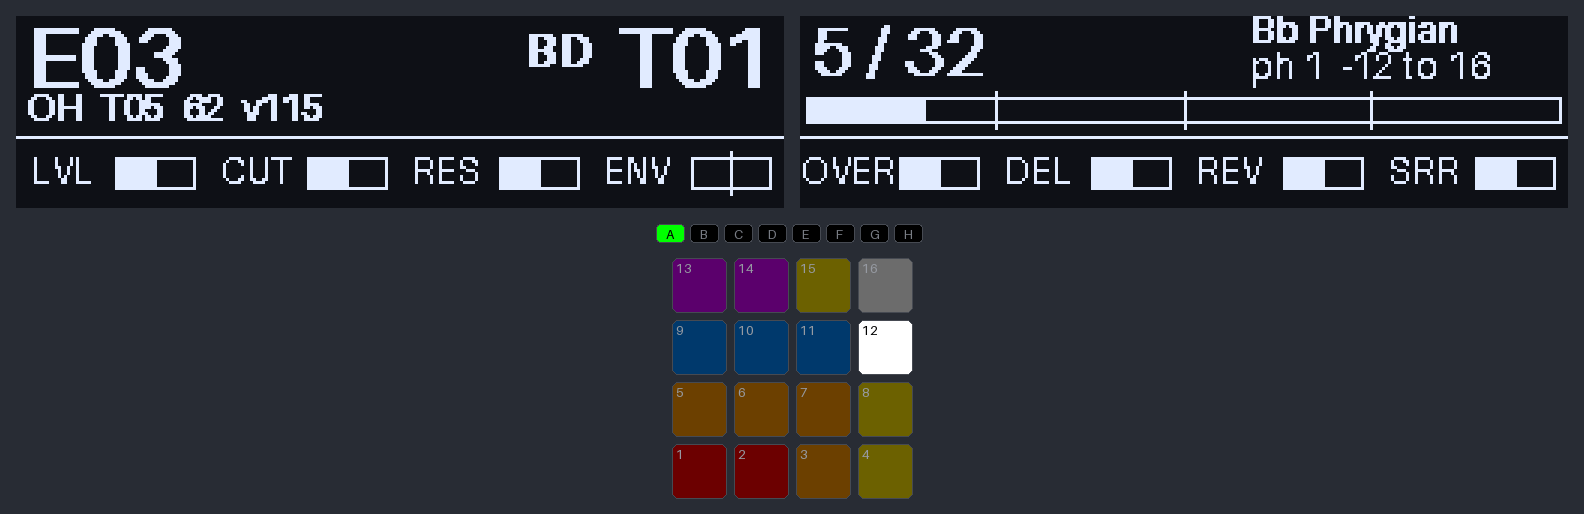
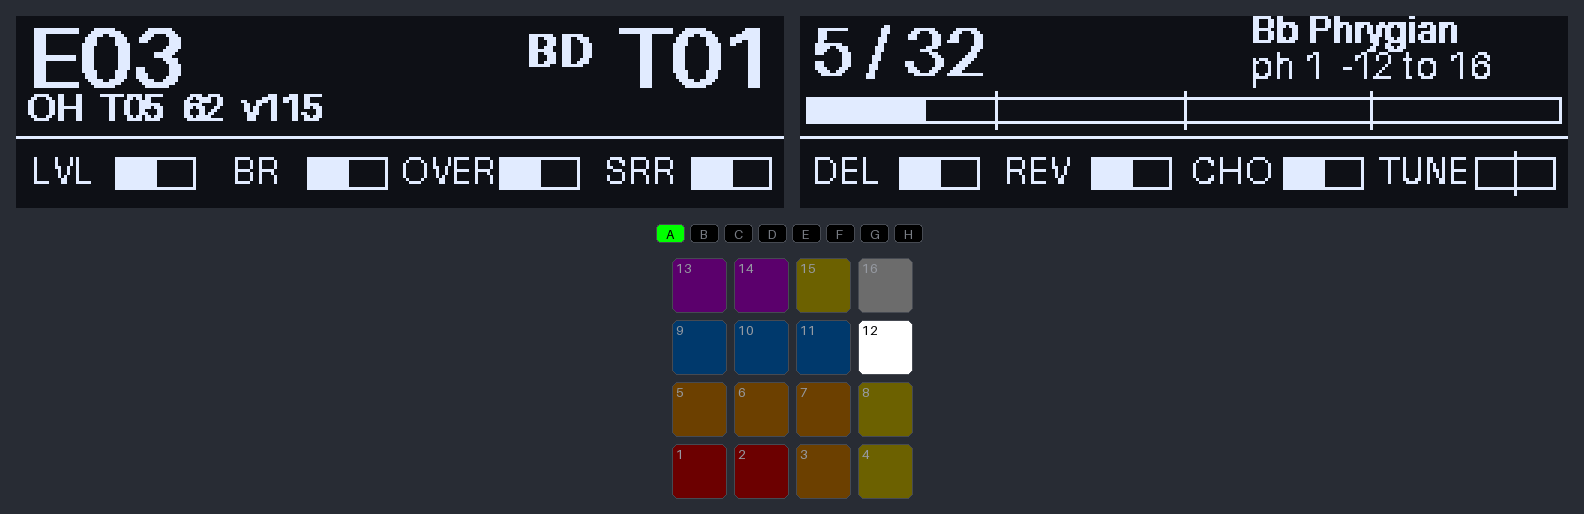
feat(mk-brain): pages d'encodeurs réordonnées, grain et envois en page 1, filtre et modulations en page 2 [9]

diff --git a/mk-brain/tests/test_engine.py b/mk-brain/tests/test_engine.py
@@ -260,7 +260,7 @@ def test_select_then_encoder_sends_cc_on_track_channel(cfg: Config) -> None:
     assert eng.track == 7
     from mk_brain.engine import ControlChange
 
-    assert eng.handle(EncoderEvent(2, 8, 0), 2 * MS) == [(2 * MS, ControlChange(6, 74, 66))]
+    assert eng.handle(EncoderEvent(2, 8, 0), 2 * MS) == [(2 * MS, ControlChange(6, 54, 66))]
 
 
 def test_pad16_mute_refused_select_targets_active_track(cfg: Config) -> None:
@@ -277,7 +277,7 @@ def test_pad16_mute_refused_select_targets_active_track(cfg: Config) -> None:
     eng.handle(PadEvent(3, False, 0), 3 * MS)
     btn(eng, "SELECT", False)
     assert eng.track == 16 and eng.last_control == "T16 selected (DT2 active)"
-    assert eng.handle(EncoderEvent(2, 4, 0), 0) == [(0, ControlChange(15, 74, 65))]
+    assert eng.handle(EncoderEvent(2, 4, 0), 0) == [(0, ControlChange(15, 54, 65))]
 
 
 def test_mute_pad_sends_cc94(cfg: Config) -> None:
@@ -305,17 +305,17 @@ def test_dt2_knob_on_auto_channel_goes_to_selected_track(cfg: Config) -> None:
     midi = cfg.midi.model_copy(update={"knobs_on_track_channel": False})  # DT2 OUTPUT CH = AUTO
     eng = Engine(cfg.model_copy(update={"midi": midi}))
     eng.track = 7
-    eng.on_control_change(15, 74, 74)  # bouton tourné sur la DT2 : arrive sur le canal 16
+    eng.on_control_change(15, 54, 74)  # bouton tourné sur la DT2 : arrive sur le canal 16
     eng.on_control_change(15, 94, 1)  # mute sur l'AUTO CHANNEL : track incertaine, ignoré
     assert not eng.faders.muted
-    assert eng.handle(EncoderEvent(2, -4, 0), 0) == [(0, ControlChange(6, 74, 73))]  # sans saut
+    assert eng.handle(EncoderEvent(2, -4, 0), 0) == [(0, ControlChange(6, 54, 73))]  # sans saut
 
 
 def test_program_change_marks_faders_stale_once(cfg: Config) -> None:
     eng = Engine(cfg)
-    eng.on_control_change(0, 74, 30)
+    eng.on_control_change(0, 54, 30)
     eng.on_program_change(3)
-    assert eng.faders.view(1)[1].stale  # CUT, encodeur 2
+    assert eng.faders.view(1)[1].stale  # BR, encodeur 2
     eng.handle(EncoderEvent(2, 4, 0), 0)
     eng.on_program_change(3)  # même pattern (PC du Stop) : rien ne change
     assert not eng.faders.view(1)[1].stale
@@ -474,23 +474,23 @@ def test_arrows_switch_encoder_page_and_pitch_bend(cfg: Config) -> None:
     from mk_brain.engine import ControlChange, PitchBend
 
     eng = Engine(cfg)
-    btn(eng, "BROWSE_RIGHT")  # page 2 : LVL MW BC PB BR CHO TUNE PAN
-    assert eng.handle(EncoderEvent(4, 8, 0), 0) == []  # PB sans SHIFT : rien
+    btn(eng, "BROWSE_RIGHT")  # page 2 : LVL CUT RES ENV MW BC PB PAN
+    assert eng.handle(EncoderEvent(7, 8, 0), 0) == []  # PB sans SHIFT : rien
     assert eng.last_control == "PB: hold SHIFT"
     btn(eng, "SHIFT")
-    assert eng.handle(EncoderEvent(4, 8, 0), 0) == [(0, PitchBend(0, 256))]  # PB : 64 → 66
-    assert eng.faders.view(1)[3].value == 66
+    assert eng.handle(EncoderEvent(7, 8, 0), 0) == [(0, PitchBend(0, 256))]  # PB : 64 → 66
+    assert eng.faders.view(1)[6].value == 66
     assert eng.handle(ButtonEvent("SHIFT", False), MS) == [(MS, PitchBend(0, 0))]  # au centre
-    assert eng.faders.view(1)[3].value == 64
+    assert eng.faders.view(1)[6].value == 64
     assert eng.handle(ButtonEvent("SHIFT", False), MS) == []  # une seule remise
     btn(eng, "SHIFT")
-    eng.handle(EncoderEvent(4, 8, 0), 0)
+    eng.handle(EncoderEvent(7, 8, 0), 0)
     btn(eng, "SHIFT", False)
-    assert eng.faders.view(1)[3].value == 64  # PB revenu au centre
-    assert eng.handle(EncoderEvent(5, 4, 0), 0) == [(0, ControlChange(0, 54, 65))]  # BR
+    assert eng.faders.view(1)[6].value == 64  # PB revenu au centre
+    assert eng.handle(EncoderEvent(2, 4, 0), 0) == [(0, ControlChange(0, 74, 65))]  # CUT
     btn(eng, "BROWSE_LEFT")
     assert eng.last_control == "page 1/2" and eng.leds().buttons["BROWSE_RIGHT"] > 0
-    assert eng.handle(EncoderEvent(2, 4, 0), 0) == [(0, ControlChange(0, 74, 65))]  # CUT
+    assert eng.handle(EncoderEvent(2, 4, 0), 0) == [(0, ControlChange(0, 54, 65))]  # BR
 
 
 def test_transport_arrows_shift_octave_in_design(cfg: Config, project: Project) -> None:
@@ -712,12 +712,12 @@ def test_arrows_cycle_both_ways(cfg: Config) -> None:
 
 def test_dt2_knob_on_track_channel_selects_track(cfg: Config) -> None:
     eng = Engine(cfg)  # DT2 OUTPUT CH = TRACK CH
-    eng.on_control_change(3, 74, 112)  # CUTOFF tourné sur la track 4 active
+    eng.on_control_change(3, 54, 112)  # BR tourné sur la track 4 active
     assert eng.track == 4 and eng.last_control == "T04 selected (DT2)"
     assert eng.faders.view(4)[1].value == 112
     eng.on_control_change(6, 94, 1)  # mute de la track 7 : pas de sélection
     assert eng.track == 4 and eng.faders.muted[7]
-    eng.on_control_change(15, 74, 90)  # track 16 (AUTO CHANNEL) : suivie aussi
+    eng.on_control_change(15, 54, 90)  # track 16 (AUTO CHANNEL) : suivie aussi
     assert eng.track == 16 and eng.faders.view(16)[1].value == 90
 
 
@@ -728,15 +728,15 @@ def test_perform_turns_pad_track_and_restores_on_release(cfg: Config) -> None:
     from mk_brain.engine import ControlChange
 
     eng = Engine(cfg)
-    eng.on_control_change(2, 74, 40)  # T3 : filtre à 40 joué sur la DT2
+    eng.on_control_change(2, 54, 40)  # T3 : BR à 40 joué sur la DT2
     eng.track = 1
     btn(eng, "SHIFT")
     assert eng.handle(PadEvent(PAD7, True, 2500), 0) == []  # SD2 (T3) : pas de note
     assert eng.tick(10 * MS) == []
     btn(eng, "SHIFT", False)  # le pad tenu garde le perform
     assert (eng.perform_track, eng.fader_track) == (3, 3)
-    assert eng.handle(EncoderEvent(2, 8, 0), MS) == [(MS, ControlChange(2, 74, 42))]
-    assert eng.handle(PadEvent(PAD7, False, 0), 2 * MS) == [(2 * MS, ControlChange(2, 74, 40))]
+    assert eng.handle(EncoderEvent(2, 8, 0), MS) == [(MS, ControlChange(2, 54, 42))]
+    assert eng.handle(PadEvent(PAD7, False, 0), 2 * MS) == [(2 * MS, ControlChange(2, 54, 40))]
     assert eng.faders.view(3)[1].value == 40 and eng.perform_track is None
     assert eng.track == 1  # la track sélectionnée n'a pas bougé
     assert press(eng, 3 * MS, pad=PAD7)[0][1] == NoteOn(2, 61, 127)  # rejoue
@@ -749,9 +749,9 @@ def test_perform_two_pads_same_track_restores_after_last(cfg: Config) -> None:
     btn(eng, "SHIFT")
     eng.handle(PadEvent(PAD1, True, 2500), 0)  # BD : T1
     eng.handle(PadEvent(PAD1 + 1, True, 2500), 0)  # BD2 : T1
-    assert eng.handle(EncoderEvent(2, 8, 0), MS) == [(MS, ControlChange(0, 74, 66))]  # une fois
+    assert eng.handle(EncoderEvent(2, 8, 0), MS) == [(MS, ControlChange(0, 54, 66))]  # une fois
     assert eng.handle(PadEvent(PAD1, False, 0), 2 * MS) == []  # BD2 tient encore T1
-    assert eng.handle(PadEvent(PAD1 + 1, False, 0), 3 * MS) == [(3 * MS, ControlChange(0, 74, 64))]
+    assert eng.handle(PadEvent(PAD1 + 1, False, 0), 3 * MS) == [(3 * MS, ControlChange(0, 54, 64))]
 
 
 def test_perform_keyboard_pad_n_is_track_n(cfg: Config) -> None:
@@ -761,7 +761,7 @@ def test_perform_keyboard_pad_n_is_track_n(cfg: Config) -> None:
     btn(eng, "SHIFT")
     eng.handle(PadEvent(PAD7, True, 2500), 0)
     assert eng.perform_track == 7
-    assert eng.handle(EncoderEvent(2, 4, 0), MS) == [(MS, ControlChange(6, 74, 65))]
+    assert eng.handle(EncoderEvent(2, 4, 0), MS) == [(MS, ControlChange(6, 54, 65))]
     eng.handle(PadEvent(PAD7, False, 0), MS)
     eng.handle(PadEvent(3, True, 2500), 2 * MS)  # pad 16 : AUTO CHANNEL refusé, sans note
     assert eng.perform_track is None and eng.tick(20 * MS) == []

diff --git a/mk-brain/docs/screens.py b/mk-brain/docs/screens.py
@@ -153,7 +153,7 @@ def live_encoder(cfg: Config, project: Project) -> tuple[Engine, int, bool]:
     hit(eng, 9, now)
     btn(eng, "SELECT", False, t=now)
     for _ in range(8):
-        eng.handle(EncoderEvent(2, 4, 0), now)  # CUT
+        eng.handle(EncoderEvent(2, 4, 0), now)  # BR
     eng.handle(EncoderEvent(3, -12, 0), now)
     return eng, now + 100 * MS, True
 
@@ -207,6 +207,7 @@ def perform(cfg: Config, project: Project) -> tuple[Engine, int, bool]:
     btn(eng, "SHIFT", t=now)
     eng.handle(PadEvent(_index(7), True, 2500), now)  # SD2 : T3 tenu en perform
     btn(eng, "SHIFT", False, t=now)
+    btn(eng, "BROWSE_RIGHT", t=now)  # page 2 : filtre
     for _ in range(6):
         eng.handle(EncoderEvent(2, 8, 0), now)  # CUT ouvert le temps du pad
     return eng, now + 100 * MS, True

diff --git a/mk-brain/SPEC.md b/mk-brain/SPEC.md
@@ -941,12 +941,14 @@ remplace la page unique CUT RES ENV DEC LVL PAN DLY REV), définies dans
 `config/default.yaml`, choisies par les flèches à côté des écrans, en
 live comme en design. Numéros de l'annexe B du manuel DT2
 (`refs/Digitakt-2-User-Manual_ENG_OS1.17_260930.pdf`, B.1-B.7). **Ordre
-revu le 2026-11-09** (demande utilisateur), TYPE retiré :
+revu le 2026-11-09** (demande utilisateur), TYPE retiré, **puis le
+2026-11-10** (demande utilisateur : grain et envois en page 1, filtre et
+modulations en page 2) :
 
 | Page | 1 | 2 | 3 | 4 | 5 | 6 | 7 | 8 |
 |---|---|---|---|---|---|---|---|---|
-| p1 | LVL 95 (niveau de track) | CUT 74 | RES 75 | ENV 77 | OVER 57 (overdrive) | DEL 84 (envoi delay) | REV 85 | SRR 55 |
-| p2 | LVL 95 | MW 1 (mod wheel) | BC 2 (breath) | PB (pitch bend) | BR 54 (bit reduction) | CHO 12 (chorus) | TUNE 16 | PAN 90 |
+| p1 | LVL 95 (niveau de track) | BR 54 (bit reduction) | OVER 57 (overdrive) | SRR 55 | DEL 84 (envoi delay) | REV 85 | CHO 12 (chorus) | TUNE 16 |
+| p2 | LVL 95 | CUT 74 | RES 75 | ENV 77 | MW 1 (mod wheel) | BC 2 (breath) | PB (pitch bend) | PAN 90 |
 
 - **Flèches** (2026-11-09) : `BROWSE_RIGHT` = page suivante,
   `BROWSE_LEFT` = précédente, **en boucle** ; LED des

diff --git a/mk-brain/docs/GUIDE.md b/mk-brain/docs/GUIDE.md
@@ -119,15 +119,15 @@ supposée). Si la DT2 joue autre chose, on corrige les notes de la table.
 
 ## 6. Encodeurs et tracks
 
-![SELECT + pad 9, puis RES tourné](img/07-encodeur.png)
+![SELECT + pad 9, puis BR et OVER tournés](img/07-encodeur.png)
 
 - **SELECT + pad n** : track n pour les 8 encodeurs (et pour le clavier).
   **SELECT + pad 16** : la track active de la DT2. Tourner un bouton sur la
   DT2 sélectionne aussi sa track sur la MK2.
 - Pendant SELECT ou MUTE tenus, les pads montrent la grille des 16 tracks
   (pad n = track n), pas le kit.
-- **Flèches BROWSE ◀ ▶** : page 1 (LVL CUT RES ENV / OVER DEL REV SRR) ou
-  page 2 (LVL MW BC PB / BR CHO TUNE PAN), en boucle.
+- **Flèches BROWSE ◀ ▶** : page 1 (LVL BR OVER SRR / DEL REV CHO TUNE) ou
+  page 2 (LVL CUT RES ENV / MW BC PB PAN), en boucle.
 - **PB** (pitch bend) seulement SHIFT tenu ; il revient au centre au
   relâché de SHIFT.
 

diff --git a/mk-brain/CHANGELOG.md b/mk-brain/CHANGELOG.md
@@ -3,6 +3,13 @@
 Format [Keep a Changelog](https://keepachangelog.com/fr/1.1.0/). Chaque slice
 de `SPEC.md` § Phases = une entrée balisée `[N]` et une version mineure.
 
+## [0.23.1] - 2026-11-10
+
+### Modifié
+
+- [9] Pages d'encodeurs réordonnées : page 1 LVL BR OVER SRR / DEL REV CHO
+  TUNE, page 2 LVL CUT RES ENV / MW BC PB PAN.
+
 ## [0.23.0] - 2026-11-10
 
 ### Ajouté
